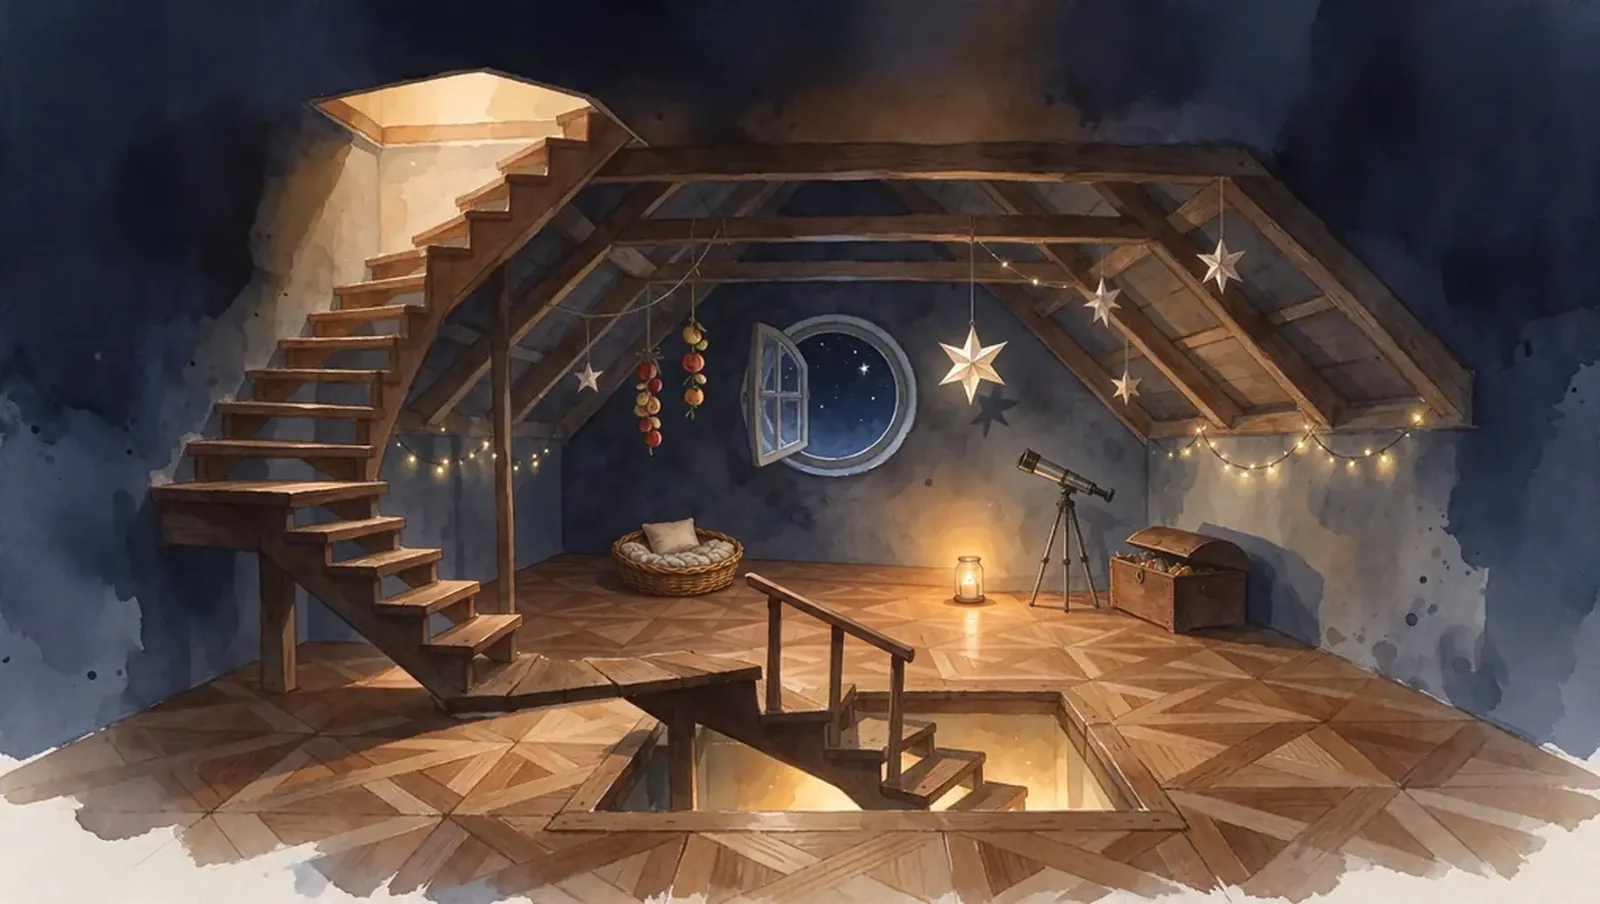
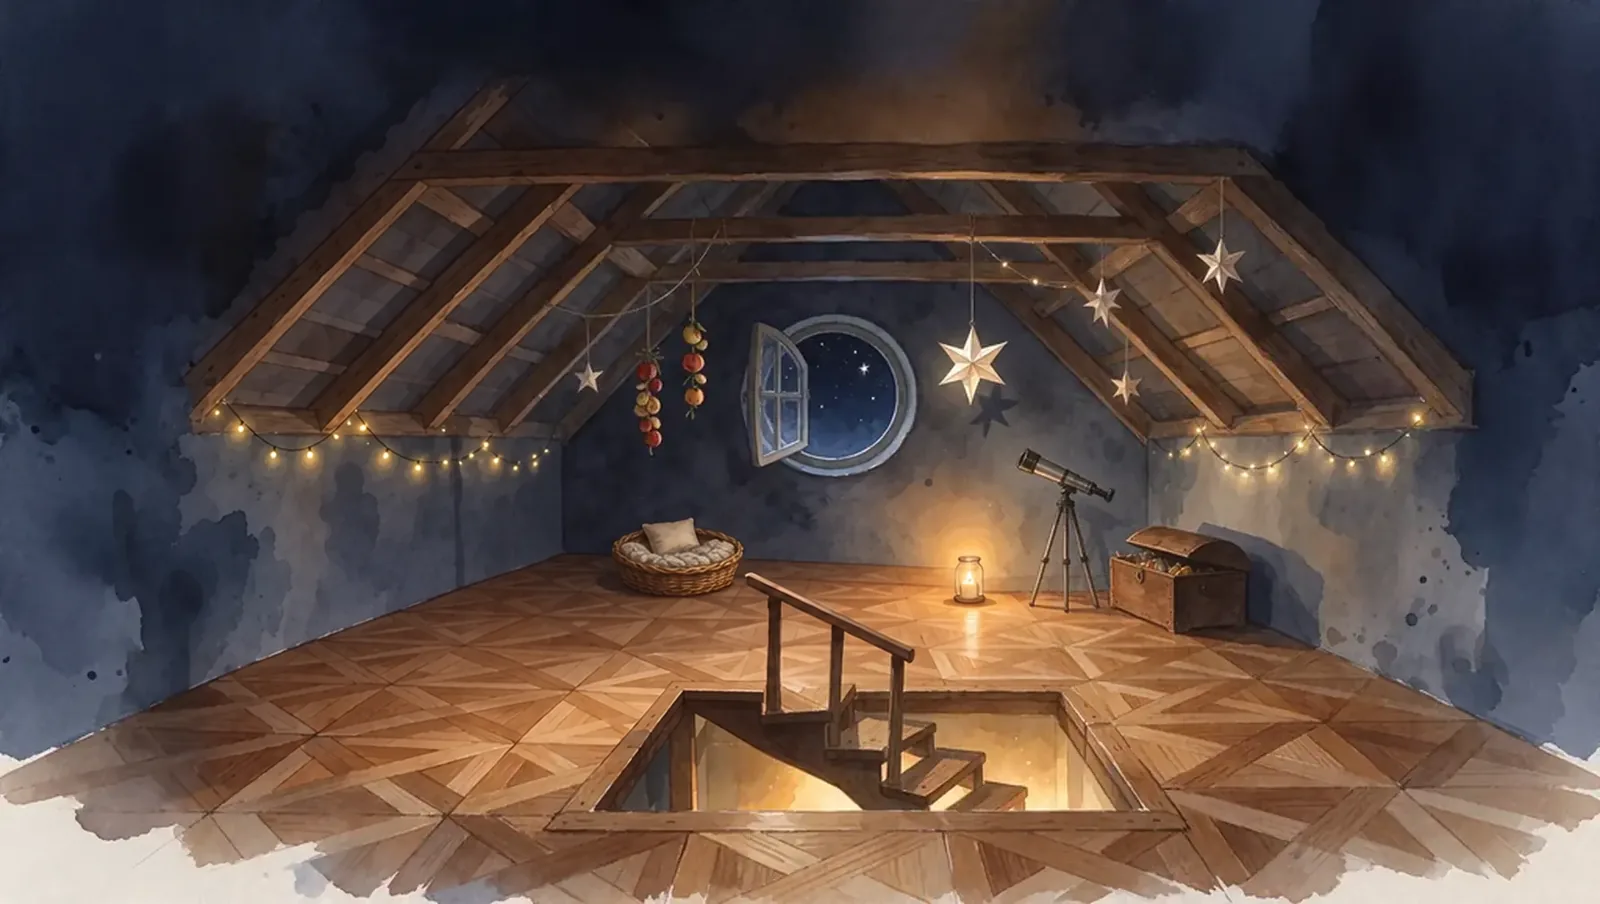
Werkstatt: Dachkammer ohne Treppe nach oben (oberstes Stockwerk)
Claude-Session: https://claude.ai/code/session_01ArsKeXS99HkwNhuNehSTEz

Changed region(s): [[0.0938, 0.0619, 0.5, 0.8673]]

diff --git a/werkstatt/index.html b/werkstatt/index.html
@@ -317,7 +317,7 @@ html.wisch body{min-height:calc(100vh + 90px);min-height:calc(100lvh + 90px)}
       {x:55,y:66.5,t:"Seine Hausschuhe. So klein.",s:"glitzer",f:"funken"},
       {x:72,y:47,t:"Im Schrank hängt seine Ersatzmütze.",s:"schrank",f:"ring"},
       {x:82,y:57,t:"Aus der Schüssel steigt noch Dampf.",s:null,f:"dampf"}]},
-    {id:"dachkammer",m:true,a:[["f",66,51,1.4],["f",72,59,1.4],["l",[[62.8,29.3],[64.7,31.2],[68.7,32.0],[88.6,46.3],[30.4,49.2],[81.3,49.2],[85.5,50.1],[29.5,50.4],[86.5,50.8],[25.8,50.8],[27.9,51.1],[84.5,51.3],[78.3,51.5],[76.7,51.7],[27.5,52.0],[79.4,52.0],[77.8,52.5]]],["w",50.4,38.4,5.8,10.4,11,1],["lw",[[54,40.6],[51.6,39.2],[55.2,44.2],[52.7,47.4]]],["f",61,39.6,2.8],["f",69,33,2.2],["f",76.3,29,2.4],["f",70.5,43,1.8],["f",36.6,41.8,1.8],["g",60.5,63.8,5.5],["n",43,58,"zZz",5]],ort:"Dachkammer",text:"Ganz oben. Das Fenster steht offen.",p:[
+    {id:"dachkammer",m:true,basis:false,a:[["p",54,85,34,6],["u",53,89,7],["f",66,51,1.4],["f",72,59,1.4],["l",[[62.8,29.3],[64.7,31.2],[68.7,32.0],[13.6,45.7],[88.6,46.2],[22.7,47.3],[15.1,47.5],[21.0,48.3],[30.4,49.2],[81.3,49.2],[75.8,49.2],[85.5,50.1],[19.4,50.3],[17.1,50.3],[24.1,50.4],[86.5,50.8],[31.0,50.9],[83.2,50.9],[27.8,51.1],[84.5,51.3],[78.3,51.5],[26.1,51.8],[76.7,51.7],[79.4,52.0],[77.8,52.5]]],["w",50.4,38.4,5.8,10.4,11,1],["lw",[[54,40.6],[51.6,39.2],[55.2,44.2],[52.7,47.4]]],["f",61,39.6,2.8],["f",69,33,2.2],["f",76.3,29,2.4],["f",70.5,43,1.8],["f",36.6,41.8,1.8],["g",60.5,63.8,5.5],["n",43,58,"zZz",5]],ort:"Dachkammer",text:"Ganz oben. Das Fenster steht offen.",p:[
       {x:52.5,y:43,t:"Durch dieses Fenster ist er hinaus. Draußen schneit es.",s:"tuer",f:"flocken"},
       {x:66.5,y:57,t:"Mit dem Fernrohr zählt er die Sterne.",s:"teleskop",f:"funken"},
       {x:74,y:62,t:"In der Kiste sammelt er Dinge, die er unterwegs findet.",s:"truhe",f:"funken"},
@@ -329,7 +329,7 @@ html.wisch body{min-height:calc(100vh + 90px);min-height:calc(100lvh + 90px)}
   var $=function(s){return document.getElementById(s)};
   var still=matchMedia("(prefers-reduced-motion: reduce)").matches;
   var gross=(Math.min(screen.width,screen.height)*(devicePixelRatio||1))>820 || innerWidth*(devicePixelRatio||1)>1500;
-  var src=function(i){return "bild/"+ZIMMER[i].id+"-"+(gross?"1600":"960")+".webp?v=20261123c"};
+  var src=function(i){return "bild/"+ZIMMER[i].id+"-"+(gross?"1600":"960")+".webp?v=20261126a"};
   var NS="http://www.w3.org/1999/xlink";
   var bildAlt=$("bildAlt"), bildNeu=$("bildNeu");
   var nr=0, tonAn=true, laeuft=false, zettelTimer=null, cache={}, toene={};
